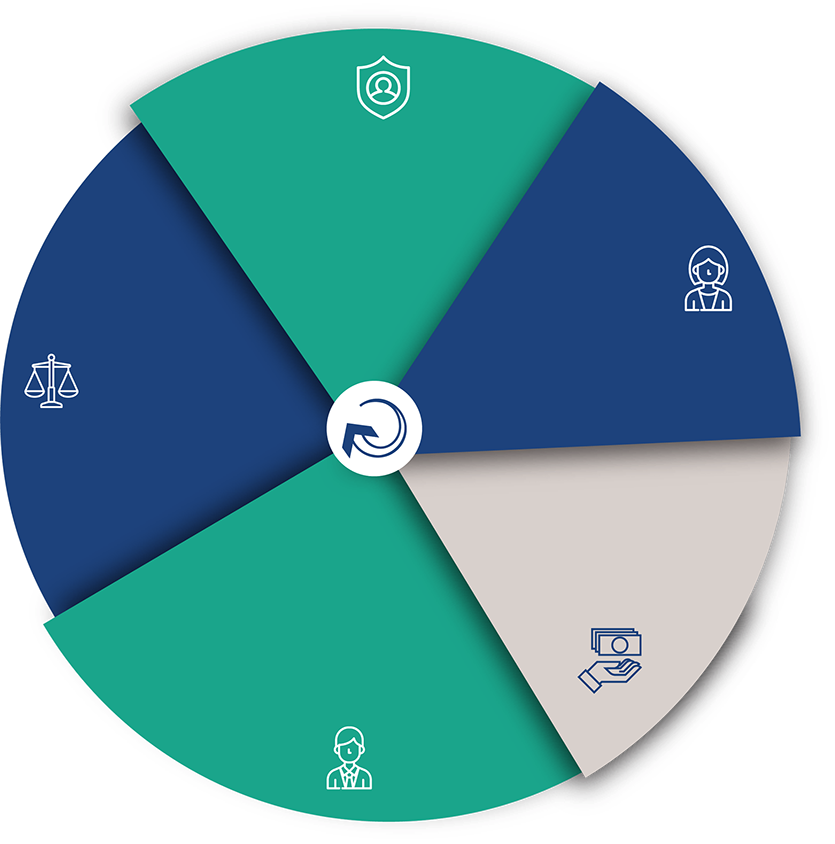
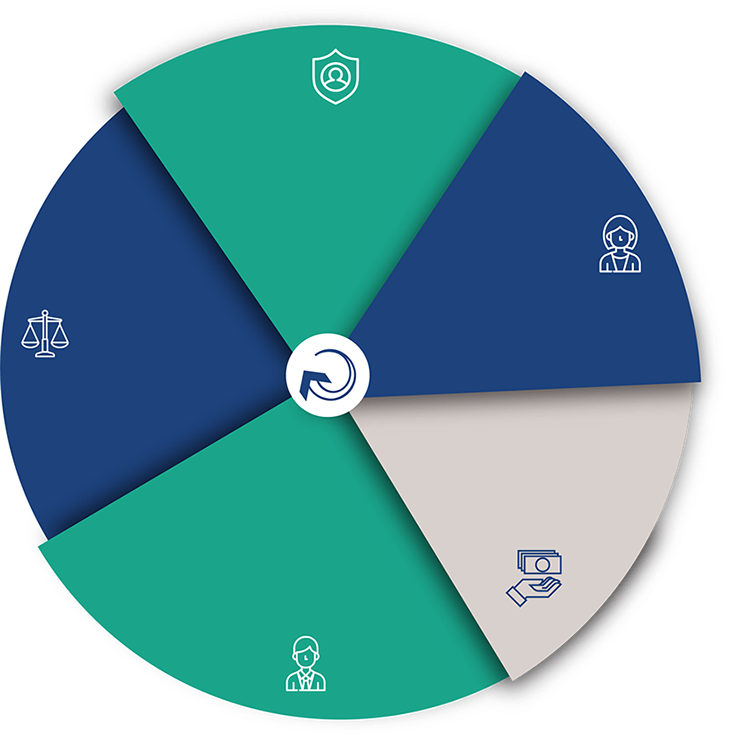
Add files via upload

Changed region(s): [[0.6922, 0.747, 0.7825, 0.8092], [0.8427, 0.3112, 0.8728, 0.3735], [0.0301, 0.4357, 0.0903, 0.4668]]

diff --git a/css/index.css b/css/index.css
@@ -1,1 +1,1 @@
-.version.index{color:#000010;background-color:#56E6FF;}#muse_css_mq{background-color:#FFFFFF;}#page{z-index:1;min-height:828.5469286909654px;background-image:none;border-width:0px;border-color:#000000;background-color:transparent;padding-top:20px;padding-bottom:0px;width:100%;max-width:990px;margin-left:auto;margin-right:auto;}#pu94{z-index:7;width:88.89%;margin-left:9.1%;}#u94{z-index:7;width:880px;background-color:transparent;position:relative;margin-right:-10000px;}#u94_img{padding-right:45px;padding-bottom:40px;}#buttonu135{z-index:9;width:231px;height:241px;-webkit-transition-duration:0.9s;-webkit-transition-delay:0s;-webkit-transition-timing-function:ease-in-out;transition-duration:0.9s;transition-delay:0s;transition-timing-function:ease-in-out;background-image:url("../images/blank.gif?crc=4208392903");border-width:0px;border-color:#787878;background-color:transparent;border-radius:63px;padding-bottom:20px;position:relative;margin-right:-10000px;margin-top:47px;left:28.53%;}#buttonu135:hover{-webkit-opacity:0.9999;-webkit-transition-duration:0.4s;-webkit-transition-delay:0s;-webkit-transition-timing-function:ease-in-out;transition-duration:0.4s;transition-delay:0s;transition-timing-function:ease-in-out;width:231px;height:241px;min-height:0px;margin:47px -10000px 0px 0%;}#buttonu135.ButtonSelected{width:231px;height:241px;min-height:0px;margin:47px -10000px 0px 0%;}#u136-6{z-index:10;width:150px;min-height:56px;border-width:0px;border-color:#787878;background-color:transparent;color:#FFFFFF;text-transform:uppercase;line-height:60px;font-size:50px;text-align:center;position:relative;margin-right:-10000px;margin-top:121px;left:49px;}#buttonu135:hover #u136-6{padding-top:0px;padding-bottom:0px;min-height:56px;width:150px;margin:121px -10000px 0px 0px;}#buttonu135.ButtonSelected #u136-6{padding-top:0px;padding-bottom:0px;min-height:56px;width:150px;margin:121px -10000px 0px 0px;}#buttonu135:hover #u136-6 p{color:#1D427C;visibility:inherit;font-size:52px;}#buttonu767{z-index:16;width:231px;height:206px;-webkit-transition-duration:0.9s;-webkit-transition-delay:0s;-webkit-transition-timing-function:ease-in-out;transition-duration:0.9s;transition-delay:0s;transition-timing-function:ease-in-out;background-image:url("../images/blank.gif?crc=4208392903");border-width:0px;border-color:#787878;background-color:transparent;border-radius:63px;padding-bottom:35px;position:relative;margin-right:-10000px;margin-top:187px;left:57.16%;}#buttonu767:hover{-webkit-opacity:0.9999;-webkit-transition-duration:0.4s;-webkit-transition-delay:0s;-webkit-transition-timing-function:ease-in-out;transition-duration:0.4s;transition-delay:0s;transition-timing-function:ease-in-out;width:231px;height:206px;min-height:0px;margin:187px -10000px 0px 0%;}#buttonu767.ButtonSelected{width:231px;height:206px;min-height:0px;margin:187px -10000px 0px 0%;}#u768-6{z-index:17;width:150px;min-height:56px;border-width:0px;border-color:#787878;background-color:transparent;color:#FFFFFF;text-transform:uppercase;line-height:60px;font-size:50px;text-align:center;position:relative;margin-right:-10000px;margin-top:86px;left:18px;}#buttonu767:hover #u768-6{padding-top:0px;padding-bottom:0px;min-height:56px;width:150px;margin:86px -10000px 0px 0px;}#buttonu767.ButtonSelected #u768-6{padding-top:0px;padding-bottom:0px;min-height:56px;width:150px;margin:86px -10000px 0px 0px;}#buttonu767:hover #u768-6 p{color:#1AA58B;visibility:inherit;font-size:52px;}#buttonu779{z-index:23;width:284px;height:140px;-webkit-transition-duration:0.9s;-webkit-transition-delay:0s;-webkit-transition-timing-function:ease-in-out;transition-duration:0.9s;transition-delay:0s;transition-timing-function:ease-in-out;background-image:url("../images/blank.gif?crc=4208392903");border-width:0px;border-color:#787878;background-color:transparent;border-radius:63px;padding-bottom:66px;position:relative;margin-right:-10000px;margin-top:448px;left:53.53%;}#buttonu779:hover{-webkit-opacity:0.9999;-webkit-transition-duration:0.4s;-webkit-transition-delay:0s;-webkit-transition-timing-function:ease-in-out;transition-duration:0.4s;transition-delay:0s;transition-timing-function:ease-in-out;width:284px;height:140px;min-height:0px;margin:448px -10000px 0px 0%;}#buttonu779.ButtonSelected{width:284px;height:140px;min-height:0px;margin:448px -10000px 0px 0%;}#u780-6{z-index:24;width:205px;min-height:56px;border-width:0px;border-color:#787878;background-color:transparent;color:#1D427C;text-transform:uppercase;line-height:60px;font-size:50px;text-align:center;position:relative;margin-right:-10000px;margin-top:20px;left:32px;}#buttonu779:hover #u780-6{padding-top:0px;padding-bottom:0px;min-height:56px;width:205px;margin:20px -10000px 0px 0px;}#buttonu779.ButtonSelected #u780-6{padding-top:0px;padding-bottom:0px;min-height:56px;width:205px;margin:20px -10000px 0px 0px;}#buttonu779:hover #u780-6 p{color:#1AA58B;visibility:inherit;font-size:52px;}#buttonu779.ButtonSelected #u780-6 p{color:#1D427C;visibility:inherit;font-size:50px;}#buttonu773{z-index:30;width:273px;height:181px;-webkit-transition-duration:0.9s;-webkit-transition-delay:0s;-webkit-transition-timing-function:ease-in-out;transition-duration:0.9s;transition-delay:0s;transition-timing-function:ease-in-out;background-image:url("../images/blank.gif?crc=4208392903");border-width:0px;border-color:#787878;background-color:transparent;border-radius:63px;padding-bottom:31px;position:relative;margin-right:-10000px;margin-top:292px;left:1.71%;}#buttonu773:hover{-webkit-opacity:0.9999;-webkit-transition-duration:0.4s;-webkit-transition-delay:0s;-webkit-transition-timing-function:ease-in-out;transition-duration:0.4s;transition-delay:0s;transition-timing-function:ease-in-out;width:273px;height:181px;min-height:0px;margin:292px -10000px 0px 0%;}#buttonu773.ButtonSelected{width:273px;height:181px;min-height:0px;margin:292px -10000px 0px 0%;}#u774-6{z-index:31;width:163px;min-height:56px;border-width:0px;border-color:#787878;background-color:transparent;color:#FFFFFF;text-transform:uppercase;line-height:60px;font-size:50px;text-align:center;position:relative;margin-right:-10000px;margin-top:61px;left:73px;}#buttonu773:hover #u774-6{padding-top:0px;padding-bottom:0px;min-height:56px;width:163px;margin:61px -10000px 0px 0px;}#buttonu773.ButtonSelected #u774-6{padding-top:0px;padding-bottom:0px;min-height:56px;width:163px;margin:61px -10000px 0px 0px;}#buttonu773:hover #u774-6 p{color:#1AA58B;visibility:inherit;font-size:52px;}#buttonu761{z-index:37;width:231px;height:160px;-webkit-transition-duration:0.9s;-webkit-transition-delay:0s;-webkit-transition-timing-function:ease-in-out;transition-duration:0.9s;transition-delay:0s;transition-timing-function:ease-in-out;background-image:url("../images/blank.gif?crc=4208392903");border-width:0px;border-color:#787878;background-color:transparent;border-radius:63px;padding-bottom:114px;position:relative;margin-right:-10000px;margin-top:517px;left:23.75%;}#buttonu761:hover{-webkit-opacity:0.9999;-webkit-transition-duration:0.4s;-webkit-transition-delay:0s;-webkit-transition-timing-function:ease-in-out;transition-duration:0.4s;transition-delay:0s;transition-timing-function:ease-in-out;width:231px;height:160px;min-height:0px;margin:517px -10000px 0px 0%;}#buttonu761.ButtonSelected{width:231px;height:160px;min-height:0px;margin:517px -10000px 0px 0%;}#u762-6{z-index:38;width:186px;min-height:56px;border-width:0px;border-color:#787878;background-color:transparent;color:#FFFFFF;text-transform:uppercase;line-height:60px;font-size:50px;text-align:center;position:relative;margin-right:-10000px;margin-top:40px;left:28px;}#buttonu761:hover #u762-6{padding-top:0px;padding-bottom:0px;min-height:56px;width:186px;margin:40px -10000px 0px 0px;}#buttonu761.ButtonSelected #u762-6{padding-top:0px;padding-bottom:0px;min-height:56px;width:186px;margin:40px -10000px 0px 0px;}#buttonu761:hover #u762-6 p{color:#1D427C;visibility:inherit;font-size:52px;}#buttonu135.ButtonSelected #u136-6 p,#buttonu767.ButtonSelected #u768-6 p,#buttonu773.ButtonSelected #u774-6 p,#buttonu761.ButtonSelected #u762-6 p{color:#FFFFFF;visibility:inherit;font-size:50px;}#u136-2,#u768-2,#u780-2,#u774-2,#u762-2{font-weight:bold;}#u136-4,#u768-4,#u780-4,#u774-4,#u762-4{letter-spacing:1px;font-family:Arial, Helvetica Neue, Helvetica, sans-serif;}#buttonu167{z-index:2;width:193px;height:37px;border-color:#787878;background-color:#666666;border-radius:10px;padding-bottom:13px;margin-top:262px;position:relative;margin-left:40.31%;}#buttonu167:hover{background-color:#141414;width:193px;height:37px;min-height:0px;margin:262px 0px 0px 40.303030303030305%;}#buttonu167.ButtonSelected{background-color:#666666;width:193px;height:37px;min-height:0px;margin:262px 0px 0px 40.303030303030305%;}#u168-4{z-index:3;width:123px;min-height:23px;background-color:transparent;color:#FFFFFF;font-size:14px;text-align:center;letter-spacing:1px;font-family:Helvetica, Helvetica Neue, Arial, sans-serif;position:relative;margin-right:-10000px;margin-top:14px;left:35px;}#buttonu167:hover #u168-4{padding-top:0px;padding-bottom:0px;min-height:23px;width:123px;margin:14px -10000px 0px 0px;}#buttonu167.ButtonSelected #u168-4{padding-top:0px;padding-bottom:0px;min-height:23px;width:123px;margin:14px -10000px 0px 0px;}#buttonu167:hover #u168-4 p{color:#FFFFFF;visibility:inherit;}#buttonu167.ButtonSelected #u168-4 p{color:#FFFFFF;visibility:inherit;}.css_verticalspacer .verticalspacer{height:calc(100vh - 1216px);}.html{background:#DBDCDD url("../images/muse%20bg.jpg?crc=4123934938") no-repeat left top scroll;background-size:cover;}body{position:relative;min-width:320px;}
+.version.index{color:#000006;background-color:#C429E5;}#muse_css_mq{background-color:#FFFFFF;}#page{z-index:1;min-height:848.739138952664px;background-image:none;border-width:0px;border-color:#000000;background-color:transparent;padding-bottom:0px;width:100%;max-width:990px;margin-left:auto;margin-right:auto;}#page_position_content{margin-top:-16px;width:100%;}#u800{z-index:2;width:774px;border-width:0px;border-color:transparent;background-color:transparent;padding-bottom:0px;position:relative;margin-left:14.25%;}#pu94{z-index:8;width:100%;}#u94{z-index:8;width:770px;background-color:transparent;position:relative;margin-right:-10000px;left:0.52%;}#u94_img{padding-right:39px;padding-bottom:34px;}#buttonu135{z-index:10;width:211px;height:226px;-webkit-transition-duration:0.9s;-webkit-transition-delay:0s;-webkit-transition-timing-function:ease-in-out;transition-duration:0.9s;transition-delay:0s;transition-timing-function:ease-in-out;background-image:url("../images/blank.gif?crc=4208392903");border-width:0px;border-color:#787878;background-color:transparent;border-radius:63px;padding-bottom:15px;position:relative;margin-right:-10000px;margin-top:16px;left:28.95%;}#buttonu135:hover{-webkit-opacity:0.9999;-webkit-transition-duration:0.4s;-webkit-transition-delay:0s;-webkit-transition-timing-function:ease-in-out;transition-duration:0.4s;transition-delay:0s;transition-timing-function:ease-in-out;width:211px;height:226px;min-height:0px;margin:16px -10000px 0px 0%;}#buttonu135.ButtonSelected{width:211px;height:226px;min-height:0px;margin:16px -10000px 0px 0%;}#u136-6{z-index:11;width:150px;min-height:56px;border-width:0px;border-color:#787878;background-color:transparent;color:#FFFFFF;text-transform:uppercase;line-height:60px;font-size:50px;text-align:center;position:relative;margin-right:-10000px;margin-top:106px;left:31px;}#buttonu135:hover #u136-6{padding-top:0px;padding-bottom:0px;min-height:56px;width:150px;margin:106px -10000px 0px 0px;}#buttonu135.ButtonSelected #u136-6{padding-top:0px;padding-bottom:0px;min-height:56px;width:150px;margin:106px -10000px 0px 0px;}#buttonu135:hover #u136-6 p{color:#1D427C;visibility:inherit;font-size:52px;}#buttonu767{z-index:17;width:231px;height:173px;-webkit-transition-duration:0.9s;-webkit-transition-delay:0s;-webkit-transition-timing-function:ease-in-out;transition-duration:0.9s;transition-delay:0s;transition-timing-function:ease-in-out;background-image:url("../images/blank.gif?crc=4208392903");border-width:0px;border-color:#787878;background-color:transparent;border-radius:63px;padding-bottom:36px;position:relative;margin-right:-10000px;margin-top:178px;left:57.63%;}#buttonu767:hover{-webkit-opacity:0.9999;-webkit-transition-duration:0.4s;-webkit-transition-delay:0s;-webkit-transition-timing-function:ease-in-out;transition-duration:0.4s;transition-delay:0s;transition-timing-function:ease-in-out;width:231px;height:173px;min-height:0px;margin:178px -10000px 0px 0%;}#buttonu767.ButtonSelected{width:231px;height:173px;min-height:0px;margin:178px -10000px 0px 0%;}#u768-6{z-index:18;width:150px;min-height:56px;border-width:0px;border-color:#787878;background-color:transparent;color:#FFFFFF;text-transform:uppercase;line-height:60px;font-size:50px;text-align:center;position:relative;margin-right:-10000px;margin-top:53px;left:15px;}#buttonu767:hover #u768-6{padding-top:0px;padding-bottom:0px;min-height:56px;width:150px;margin:53px -10000px 0px 0px;}#buttonu767.ButtonSelected #u768-6{padding-top:0px;padding-bottom:0px;min-height:56px;width:150px;margin:53px -10000px 0px 0px;}#buttonu767:hover #u768-6 p{color:#1AA58B;visibility:inherit;font-size:52px;}#buttonu779{z-index:24;width:242px;height:143px;-webkit-transition-duration:0.9s;-webkit-transition-delay:0s;-webkit-transition-timing-function:ease-in-out;transition-duration:0.9s;transition-delay:0s;transition-timing-function:ease-in-out;background-image:url("../images/blank.gif?crc=4208392903");border-width:0px;border-color:#787878;background-color:transparent;border-radius:63px;padding-bottom:63px;position:relative;margin-right:-10000px;margin-top:397px;left:56.21%;}#buttonu779:hover{-webkit-opacity:0.9999;-webkit-transition-duration:0.4s;-webkit-transition-delay:0s;-webkit-transition-timing-function:ease-in-out;transition-duration:0.4s;transition-delay:0s;transition-timing-function:ease-in-out;width:242px;height:143px;min-height:0px;margin:397px -10000px 0px 0%;}#buttonu779.ButtonSelected{width:242px;height:143px;min-height:0px;margin:397px -10000px 0px 0%;}#u780-6{z-index:25;width:205px;min-height:56px;border-width:0px;border-color:#787878;background-color:transparent;color:#1D427C;text-transform:uppercase;line-height:60px;font-size:50px;text-align:center;position:relative;margin-right:-10000px;margin-top:23px;left:18px;}#buttonu779:hover #u780-6{padding-top:0px;padding-bottom:0px;min-height:56px;width:205px;margin:23px -10000px 0px 0px;}#buttonu779.ButtonSelected #u780-6{padding-top:0px;padding-bottom:0px;min-height:56px;width:205px;margin:23px -10000px 0px 0px;}#buttonu779:hover #u780-6 p{color:#1AA58B;visibility:inherit;font-size:52px;}#buttonu779.ButtonSelected #u780-6 p{color:#1D427C;visibility:inherit;font-size:50px;}#buttonu773{z-index:31;width:248px;height:181px;-webkit-transition-duration:0.9s;-webkit-transition-delay:0s;-webkit-transition-timing-function:ease-in-out;transition-duration:0.9s;transition-delay:0s;transition-timing-function:ease-in-out;background-image:url("../images/blank.gif?crc=4208392903");border-width:0px;border-color:#787878;background-color:transparent;border-radius:63px;padding-bottom:31px;position:relative;margin-right:-10000px;margin-top:242px;}#buttonu773:hover{-webkit-opacity:0.9999;-webkit-transition-duration:0.4s;-webkit-transition-delay:0s;-webkit-transition-timing-function:ease-in-out;transition-duration:0.4s;transition-delay:0s;transition-timing-function:ease-in-out;width:248px;height:181px;min-height:0px;margin:242px -10000px 0px 0%;}#buttonu773.ButtonSelected{width:248px;height:181px;min-height:0px;margin:242px -10000px 0px 0%;}#u774-6{z-index:32;width:163px;min-height:56px;border-width:0px;border-color:#787878;background-color:transparent;color:#FFFFFF;text-transform:uppercase;line-height:60px;font-size:50px;text-align:center;position:relative;margin-right:-10000px;margin-top:61px;left:73px;}#buttonu773:hover #u774-6{padding-top:0px;padding-bottom:0px;min-height:56px;width:163px;margin:61px -10000px 0px 0px;}#buttonu773.ButtonSelected #u774-6{padding-top:0px;padding-bottom:0px;min-height:56px;width:163px;margin:61px -10000px 0px 0px;}#buttonu773:hover #u774-6 p{color:#1AA58B;visibility:inherit;font-size:52px;}#buttonu761{z-index:38;width:231px;height:160px;-webkit-transition-duration:0.9s;-webkit-transition-delay:0s;-webkit-transition-timing-function:ease-in-out;transition-duration:0.9s;transition-delay:0s;transition-timing-function:ease-in-out;background-image:url("../images/blank.gif?crc=4208392903");border-width:0px;border-color:#787878;background-color:transparent;border-radius:63px;padding-bottom:75px;position:relative;margin-right:-10000px;margin-top:454px;left:23.65%;}#buttonu761:hover{-webkit-opacity:0.9999;-webkit-transition-duration:0.4s;-webkit-transition-delay:0s;-webkit-transition-timing-function:ease-in-out;transition-duration:0.4s;transition-delay:0s;transition-timing-function:ease-in-out;width:231px;height:160px;min-height:0px;margin:454px -10000px 0px 0%;}#buttonu761.ButtonSelected{width:231px;height:160px;min-height:0px;margin:454px -10000px 0px 0%;}#u762-6{z-index:39;width:186px;min-height:56px;border-width:0px;border-color:#787878;background-color:transparent;color:#FFFFFF;text-transform:uppercase;line-height:60px;font-size:50px;text-align:center;position:relative;margin-right:-10000px;margin-top:40px;left:28px;}#buttonu761:hover #u762-6{padding-top:0px;padding-bottom:0px;min-height:56px;width:186px;margin:40px -10000px 0px 0px;}#buttonu761.ButtonSelected #u762-6{padding-top:0px;padding-bottom:0px;min-height:56px;width:186px;margin:40px -10000px 0px 0px;}#buttonu761:hover #u762-6 p{color:#1D427C;visibility:inherit;font-size:52px;}#buttonu135.ButtonSelected #u136-6 p,#buttonu767.ButtonSelected #u768-6 p,#buttonu773.ButtonSelected #u774-6 p,#buttonu761.ButtonSelected #u762-6 p{color:#FFFFFF;visibility:inherit;font-size:50px;}#u136-2,#u768-2,#u780-2,#u774-2,#u762-2{font-weight:bold;}#u136-4,#u768-4,#u780-4,#u774-4,#u762-4{letter-spacing:1px;font-family:Arial, Helvetica Neue, Helvetica, sans-serif;}#buttonu167{z-index:3;width:193px;height:37px;border-color:#787878;background-color:#666666;border-radius:10px;padding-bottom:13px;margin-top:384px;position:relative;margin-left:33.21%;}#buttonu167:hover{background-color:#141414;width:193px;height:37px;min-height:0px;margin:384px 0px 0px 33.20413436692506%;}#buttonu167.ButtonSelected{background-color:#666666;width:193px;height:37px;min-height:0px;margin:384px 0px 0px 33.20413436692506%;}#u168-4{z-index:4;width:123px;min-height:23px;background-color:transparent;color:#FFFFFF;font-size:14px;text-align:center;letter-spacing:1px;font-family:Helvetica, Helvetica Neue, Arial, sans-serif;position:relative;margin-right:-10000px;margin-top:14px;left:35px;}#buttonu167:hover #u168-4{padding-top:0px;padding-bottom:0px;min-height:23px;width:123px;margin:14px -10000px 0px 0px;}#buttonu167.ButtonSelected #u168-4{padding-top:0px;padding-bottom:0px;min-height:23px;width:123px;margin:14px -10000px 0px 0px;}#buttonu167:hover #u168-4 p{color:#FFFFFF;visibility:inherit;}#buttonu167.ButtonSelected #u168-4 p{color:#FFFFFF;visibility:inherit;}.css_verticalspacer .verticalspacer{height:calc(100vh - 1191px);}.html{background:#DBDCDD url("../images/muse%20bg.jpg?crc=4123934938") no-repeat left top scroll;background-size:cover;}body{position:relative;min-width:320px;}

diff --git a/index.html b/index.html
@@ -17,27 +17,31 @@ if(typeof Muse == "undefined") window.Muse = {}; window.Muse.assets = {"required
   <title>AGSA</title>
   <!-- CSS -->
   <link rel="stylesheet" type="text/css" href="css/site_global.css?crc=444006867"/>
-  <link rel="stylesheet" type="text/css" href="css/index.css?crc=274130687" id="pagesheet"/>
+  <link rel="stylesheet" type="text/css" href="css/index.css?crc=113519077" id="pagesheet"/>
    </head>
  <body class="museBGSize">
 
   <div class="clearfix borderbox" id="page"><!-- column -->
-   <div class="clearfix colelem" id="pu94"><!-- group -->
-    <div class="clip_frame grpelem" id="u94" data-sizePolicy="fixed" data-pintopage="page_fluidx"><!-- image -->
-     <img class="block" id="u94_img" src="images/wheel.png?crc=197838654" alt="" width="835" height="844"/>
+   <div class="position_content" id="page_position_content">
+    <div class="clearfix colelem" id="u800"><!-- column -->
+     <div class="clearfix colelem" id="pu94"><!-- group -->
+      <div class="clip_frame grpelem" id="u94" data-sizePolicy="fixed" data-pintopage="page_fluidx"><!-- image -->
+       <img class="block" id="u94_img" src="images/wheel.png?crc=4077048245" alt="" width="731" height="739"/>
+      </div>
+      <a class="nonblock nontext Button transition rounded-corners clearfix grpelem" id="buttonu135" href="https://motusfinancialservices.eu.crossknowledge.com/sso/session/291/Enroll/yes/" target="_blank" data-sizePolicy="fixed" data-pintopage="page_fluidx"><!-- container box --><div class="clearfix grpelem" id="u136-6" data-sizePolicy="fixed" data-pintopage="page_fixedLeft"><!-- content --><p id="u136-2">day</p><p id="u136-4">one</p></div></a>
+      <a class="nonblock nontext Button transition rounded-corners clearfix grpelem" id="buttonu767" href="https://motusfinancialservices.eu.crossknowledge.com/sso/session/291/Enroll/yes/" target="_blank" data-sizePolicy="fixed" data-pintopage="page_fluidx"><!-- container box --><div class="clearfix grpelem" id="u768-6" data-sizePolicy="fixed" data-pintopage="page_fixedLeft"><!-- content --><p id="u768-2">day</p><p id="u768-4">two</p></div></a>
+      <a class="nonblock nontext Button transition rounded-corners clearfix grpelem" id="buttonu779" href="https://motusfinancialservices.eu.crossknowledge.com/sso/session/291/Enroll/yes/" target="_blank" data-sizePolicy="fixed" data-pintopage="page_fluidx"><!-- container box --><div class="clearfix grpelem" id="u780-6" data-sizePolicy="fixed" data-pintopage="page_fixedLeft"><!-- content --><p id="u780-2">day</p><p id="u780-4">three</p></div></a>
+      <a class="nonblock nontext Button transition rounded-corners clearfix grpelem" id="buttonu773" href="https://motusfinancialservices.eu.crossknowledge.com/sso/session/291/Enroll/yes/" target="_blank" data-sizePolicy="fixed" data-pintopage="page_fluidx"><!-- container box --><div class="clearfix grpelem" id="u774-6" data-sizePolicy="fixed" data-pintopage="page_fixedLeft"><!-- content --><p id="u774-2">day</p><p id="u774-4">five</p></div></a>
+      <a class="nonblock nontext Button transition rounded-corners clearfix grpelem" id="buttonu761" href="https://motusfinancialservices.eu.crossknowledge.com/sso/session/291/Enroll/yes/" target="_blank" data-sizePolicy="fixed" data-pintopage="page_fluidx"><!-- container box --><div class="clearfix grpelem" id="u762-6" data-sizePolicy="fixed" data-pintopage="page_fixedLeft"><!-- content --><p id="u762-2">day</p><p id="u762-4">Four</p></div></a>
+     </div>
+     <div class="Button rounded-corners clearfix colelem" id="buttonu167" data-sizePolicy="fixed" data-pintopage="page_fluidx"><!-- container box -->
+      <div class="clearfix grpelem" id="u168-4" data-sizePolicy="fixed" data-pintopage="page_fixedLeft"><!-- content -->
+       <p>Lorem Ipsum</p>
+      </div>
+     </div>
     </div>
-    <a class="nonblock nontext Button transition rounded-corners clearfix grpelem" id="buttonu135" href="https://motusfinancialservices.eu.crossknowledge.com/sso/session/291/Enroll/yes/" target="_blank" data-sizePolicy="fixed" data-pintopage="page_fluidx"><!-- container box --><div class="clearfix grpelem" id="u136-6" data-sizePolicy="fixed" data-pintopage="page_fixedLeft"><!-- content --><p id="u136-2">day</p><p id="u136-4">one</p></div></a>
-    <a class="nonblock nontext Button transition rounded-corners clearfix grpelem" id="buttonu767" href="https://motusfinancialservices.eu.crossknowledge.com/sso/session/291/Enroll/yes/" target="_blank" data-sizePolicy="fixed" data-pintopage="page_fluidx"><!-- container box --><div class="clearfix grpelem" id="u768-6" data-sizePolicy="fixed" data-pintopage="page_fixedLeft"><!-- content --><p id="u768-2">day</p><p id="u768-4">two</p></div></a>
-    <a class="nonblock nontext Button transition rounded-corners clearfix grpelem" id="buttonu779" href="https://motusfinancialservices.eu.crossknowledge.com/sso/session/291/Enroll/yes/" target="_blank" data-sizePolicy="fixed" data-pintopage="page_fluidx"><!-- container box --><div class="clearfix grpelem" id="u780-6" data-sizePolicy="fixed" data-pintopage="page_fixedLeft"><!-- content --><p id="u780-2">day</p><p id="u780-4">three</p></div></a>
-    <a class="nonblock nontext Button transition rounded-corners clearfix grpelem" id="buttonu773" href="https://motusfinancialservices.eu.crossknowledge.com/sso/session/291/Enroll/yes/" target="_blank" data-sizePolicy="fixed" data-pintopage="page_fluidx"><!-- container box --><div class="clearfix grpelem" id="u774-6" data-sizePolicy="fixed" data-pintopage="page_fixedLeft"><!-- content --><p id="u774-2">day</p><p id="u774-4">five</p></div></a>
-    <a class="nonblock nontext Button transition rounded-corners clearfix grpelem" id="buttonu761" href="https://motusfinancialservices.eu.crossknowledge.com/sso/session/291/Enroll/yes/" target="_blank" data-sizePolicy="fixed" data-pintopage="page_fluidx"><!-- container box --><div class="clearfix grpelem" id="u762-6" data-sizePolicy="fixed" data-pintopage="page_fixedLeft"><!-- content --><p id="u762-2">day</p><p id="u762-4">Four</p></div></a>
+    <div class="verticalspacer" data-offset-top="1191" data-content-above-spacer="1191" data-content-below-spacer="0" data-sizePolicy="fixed" data-pintopage="page_fixedLeft"></div>
    </div>
-   <div class="Button rounded-corners clearfix colelem" id="buttonu167" data-sizePolicy="fixed" data-pintopage="page_fluidx"><!-- container box -->
-    <div class="clearfix grpelem" id="u168-4" data-sizePolicy="fixed" data-pintopage="page_fixedLeft"><!-- content -->
-     <p>Lorem Ipsum</p>
-    </div>
-   </div>
-   <div class="verticalspacer" data-offset-top="1216" data-content-above-spacer="1216" data-content-below-spacer="0" data-sizePolicy="fixed" data-pintopage="page_fixedLeft"></div>
   </div>
   <!-- Other scripts -->
   <script type="text/javascript">
